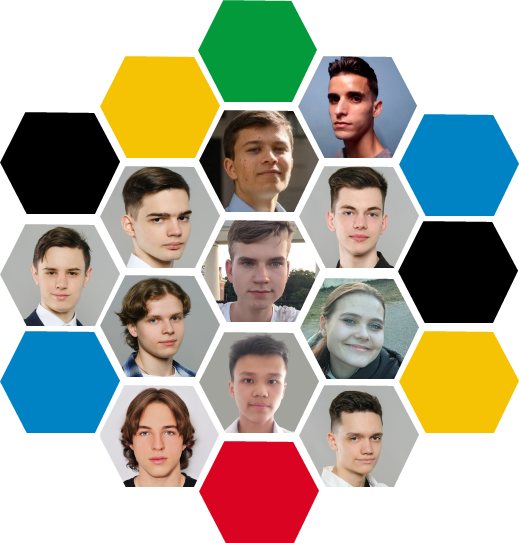
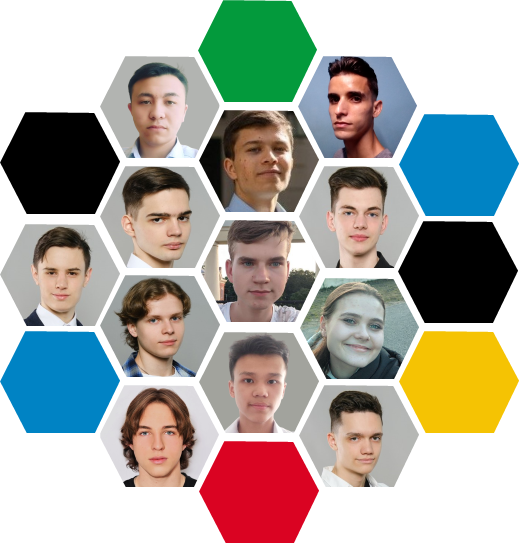
Acknowledged Shukurullo Lutfulloyev's contribution

Changed region(s): [[0.185, 0.0884, 0.4316, 0.2947]]

diff --git a/ru/index.html b/ru/index.html
@@ -51,7 +51,7 @@
 
         <p class="description">
         Сборник задач по физике под редакцией О.Я. Савченко - один из самых популярных ресурсов для подготовки к олимпиадам по физике в странах постсоветского пространства. За более чем 30 лет, прошедших с момента его первого издания, не было создано ни одного полного руководства по решению задач из него.<br>
-        На этом сайте вы можете наблюдать попытку создания первого решебника этого сборника с оформлением решений <a href="about">разных авторов</a>. Всего было опубликовано 733 решений из 2,023 задач. В 2023 году был запущен проект, который активно развивается на русском и английском языках. Если хотите поучаствовать, пишите <a href="mailto: alex@savchenkosolutions.com" target="_blank">alex@savchenkosolutions.com</a>.
+        На этом сайте вы можете наблюдать попытку создания первого решебника этого сборника с оформлением решений <a href="about">разных авторов</a>. Всего было опубликовано 734 решений из 2,023 задач. В 2023 году был запущен проект, который активно развивается на русском и английском языках. Если хотите поучаствовать, пишите <a href="mailto: alex@savchenkosolutions.com" target="_blank">alex@savchenkosolutions.com</a>.
         </p>
     </header>
 
@@ -1220,6 +1220,7 @@
       
         <h3 id="10.1" style="text-align: center;">§ 10.1. Движение в однородном магнитном поле</h3>
         <div class="columns"><ul class="column">
+                <li><a style="color: hsla(240, 100%, 33%, 1);" target="_blank"href="../en/10.1.15">10.1.15</a></li>
                 <li><a href="../10/10.1.20">10.1.20</a></li>
             </ul>
         <ul class="column">

diff --git a/index.html b/index.html
@@ -55,7 +55,7 @@ papers.">
 
         <p class="description" id="description">
         The collection of problems in physics edited by O.Y. Savchenko is one of the most popular resources for preparation for physics olympiads in post-soviet countries. Some of these problems were a source of inspiration for Jaan Kalda’s handouts and to some NBPhO problems. You may find problems from old IPhO papers. For more than 30 years since its first edition, not a single complete guide to solving problems from it has been created.<br>
-        On this website, you can observe a non-profit startup creating the first wizard of this collection with the design of solutions of <a href="about#team">different authors</a>. In total,  733 solutions have been published, out of 2,023 problems. In 2023, the project was launched, which is actively developing in Russian and English. If you'd like to contribute, feel free to email <a href="mailto: alex@savchenkosolutions.com" target="_blank">alex@savchenkosolutions.com</a>.
+        On this website, you can observe a non-profit startup creating the first wizard of this collection with the design of solutions of <a href="about#team">different authors</a>. In total,  734 solutions have been published, out of 2,023 problems. In 2023, the project was launched, which is actively developing in Russian and English. If you'd like to contribute, feel free to email <a href="mailto: alex@savchenkosolutions.com" target="_blank">alex@savchenkosolutions.com</a>.
         </p>
     </header>
 
@@ -629,6 +629,7 @@ papers.">
                 <li><a href="en/10.1.15">10.1.15</a></li>
             </ul>
         </div>
+        
         <h3 id="10.2" style="text-align: center;">§ 10.2. Drift motion of particles</h3>
         <div class="columns"><ul class="column">
                 <li><a href="en/10.2.8">10.2.8</a></li>

diff --git a/about/index.html b/about/index.html
@@ -55,10 +55,20 @@
 
 <center>
   <figure>
-    <img src="../img/team.png"
-      loading="lazy"  width="250" />
+    <img src="../img/team.png" loading="lazy" width="280" class="animate-img" />
   </figure>
 </center>
+
+<style>
+  .animate-img {
+    transition: transform 0.3s ease-in-out;
+  }
+
+  .animate-img:hover {
+    transform: scale(1.02); /* Scale up the image on hover */
+  }
+</style>
+
 <h3>
 	Our team
 </h3>
@@ -93,9 +103,9 @@
 			<li>
 				<a href="https://www.instagram.com/_chender_/" target="_blank">Aliaksandr Kanashenka</a> - BelPhO silver medalist, for completing solutions to <i>"3.1.	Small deviations from equilibrium"</i> and <i>"3.2. Period and frequency of free oscillations"</i>, sharing alternative solutions and complementing Mikita's work.
 			</li>
-<!--			<li>-->
-<!--			  <a href="https://www.instagram.com/_yuldashev_hv" target="_blank">Ulugbek Yuldashev</a> - for providing 15 English-language solutions from different sections-->
-<!--			</li>-->
+			<li>
+			  <a href="https://t.me/UzbPhysicist" target="_blank">Shukurullo Lutfulloyev</a>, student at the Faculty of Physics, National University of Uzbekistan, for providing solutions to the section "2.5. Collisions" and additional dynamics problems
+			</li>
 			<li>
 			  <a href="https://www.instagram.com/_den.di__/" target="_blank">Dzikan Danila</a> - Contributed several solutions from the <i>"1.1-1.2. Constant-speed and variable-speed motion"</i> sections
 			</li>
